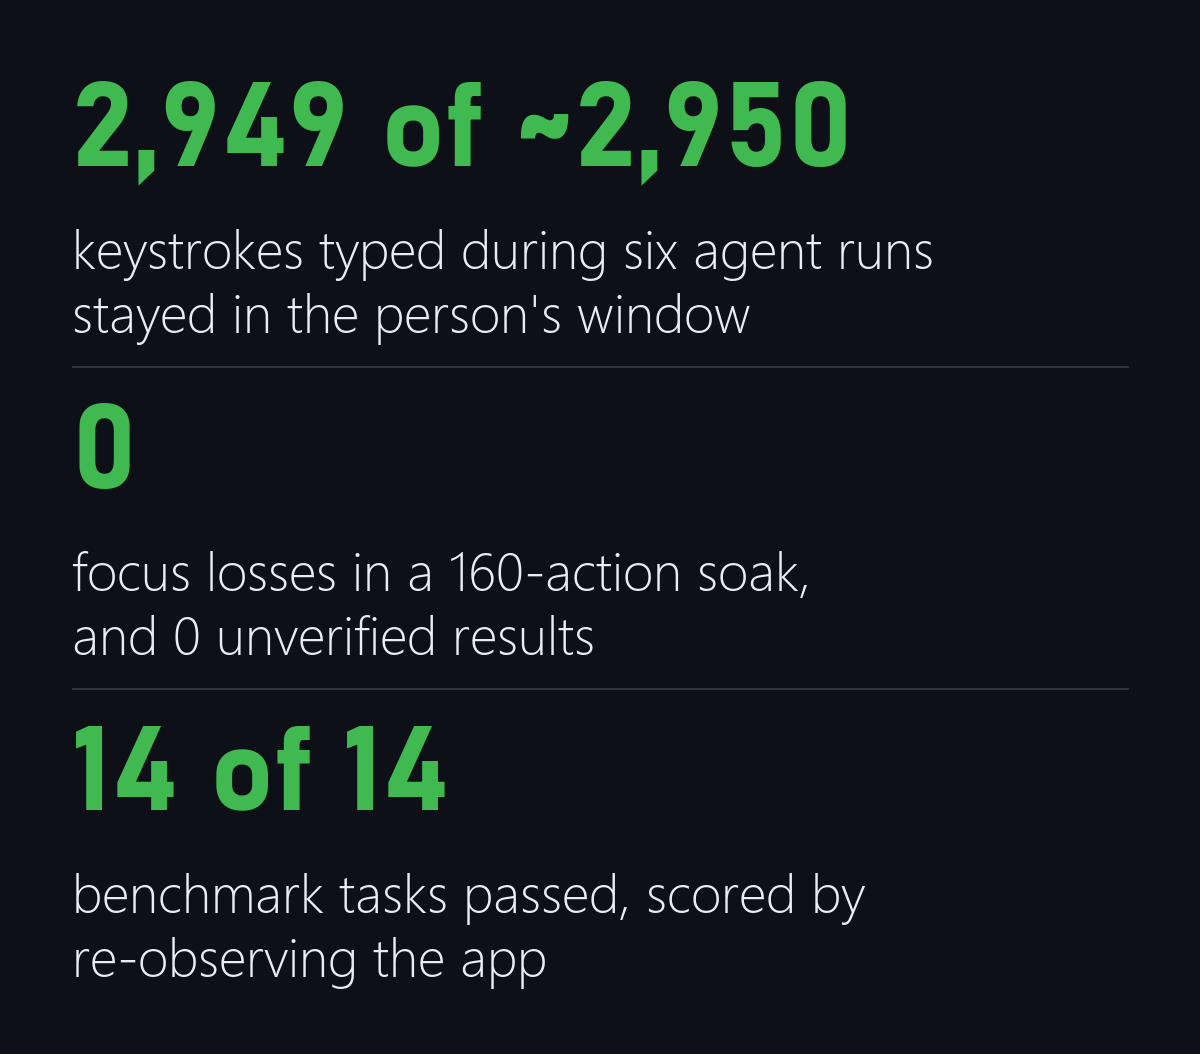
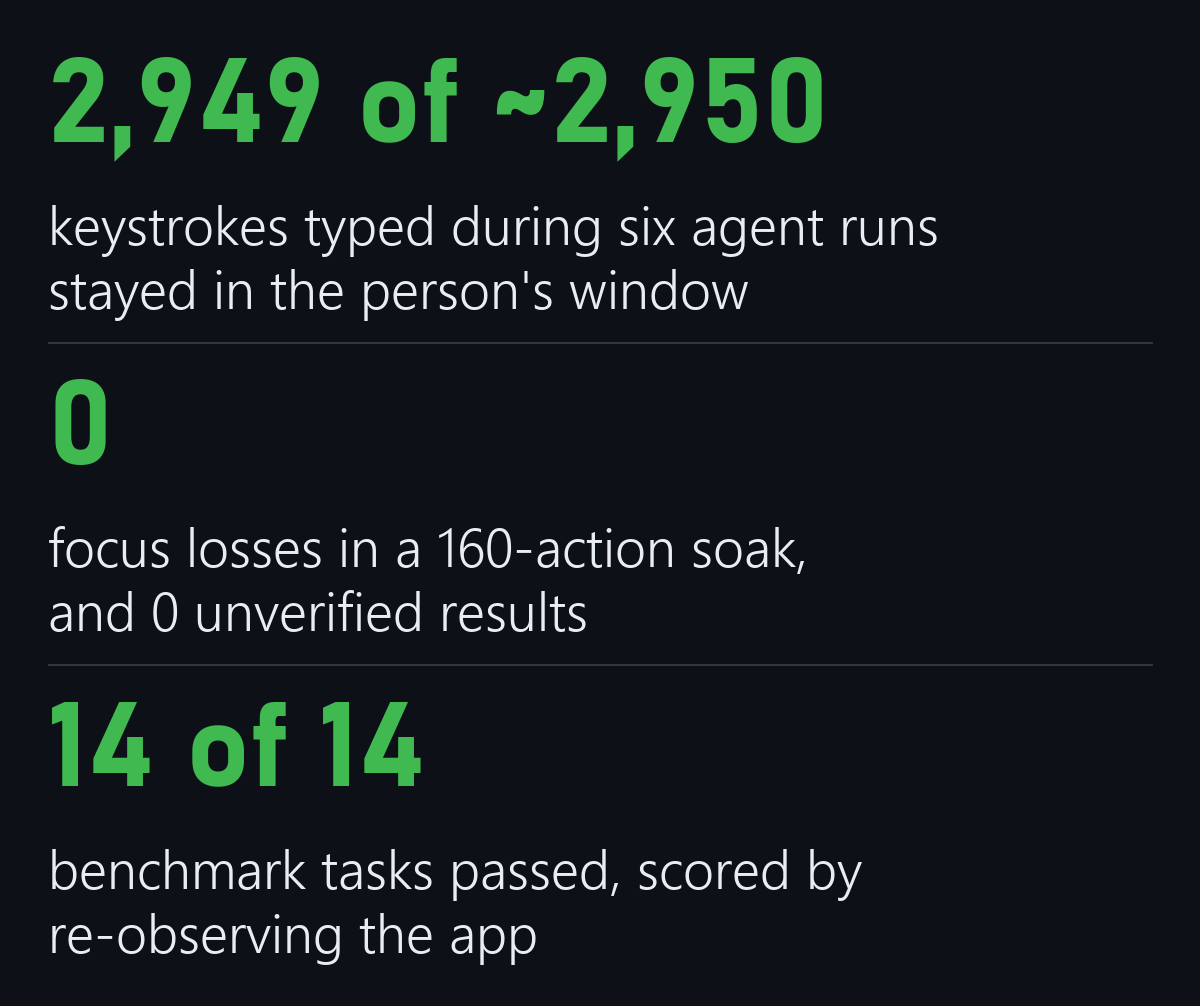
docs(readme): enlarged window title in the demo, route chooser, loop diagram

diff --git a/scripts/readme-art.py b/scripts/readme-art.py
@@ -15,7 +15,7 @@ from PIL import Image, ImageDraw, ImageFont
 ROOT = Path(__file__).resolve().parent.parent
 BG, BORDER = "#0d1117", "#30363d"
 TEXT, MUTED, GREEN = "#e6edf3", "#8b949e", "#3fb950"
-W, PAD = 1200, 72
+W, PAD = 1200, 48  # 48 of 1200 is ~21px at 520, the demo frame's inset
 
 
 def first_font(names, size):
@@ -38,7 +38,11 @@ def display(size):
 
 
 def light(size):
-    return first_font(["segoeuil.ttf", "DejaVuSans-ExtraLight.ttf", "DejaVuSans.ttf"], size)
+    return first_font(["segoeuisl.ttf", "segoeuil.ttf", "DejaVuSans.ttf"], size)
+
+
+def mono(size):
+    return first_font(["consola.ttf", "DejaVuSansMono.ttf"], size)
 
 
 def fit(draw, text, maker, size, width):
@@ -96,7 +100,73 @@ def proof():
     im.save(ROOT / "assets/proof.png", optimize=True)
 
 
+def title_inset():
+    """assets/demo-stacked.gif with the captured window's title bar repeated
+    under the window at twice its size (nearest-neighbour, so it is the same
+    pixels, only larger). The title is what proves the click in the last
+    step, and at phone width the original is about 7px tall."""
+    src = Image.open(ROOT / "assets/demo-stacked.gif")
+    frames, durations = [], []
+    BAND, SCALE, CROP_W, CROP_H = 84, 2, 262, 26
+    for i in range(src.n_frames):
+        src.seek(i)
+        durations.append(src.info.get("duration", 2600))
+        f = src.convert("RGB")
+        w, h = f.size
+        # The window is the only thing light across the whole middle of the
+        # frame (the headline is light text on dark, with gaps).
+        def window_row(y):
+            return all(sum(f.getpixel((x, y))) > 500 for x in range(w * 3 // 10, w * 7 // 10, 8))
+        rows = [y for y in range(h) if window_row(y)]
+        top = rows[0]
+        left = next(x for x in range(w) if sum(f.getpixel((x, top + 4))) > 600)
+        # Walk down the window's light left margin to the end of its client
+        # area, then through the dark frame under it.
+        bottom = top
+        while bottom + 1 < h and sum(f.getpixel((left + 3, bottom + 1))) > 500:
+            bottom += 1
+        while bottom + 1 < h and sum(f.getpixel((left + 3, bottom + 1))) < 60 and \
+                sum(f.getpixel((left + 3, bottom + 1))) != sum(f.getpixel((2, bottom + 1))):
+            bottom += 1
+        crop = f.crop((left + 2, top, left + 2 + CROP_W, top + CROP_H))
+        zoom = crop.resize((CROP_W * SCALE, CROP_H * SCALE), Image.NEAREST)
+        out = Image.new("RGB", (w, h + BAND), BG)
+        out.paste(f.crop((0, 0, w, bottom + 1)), (0, 0))
+        y = bottom + 1 + (BAND - CROP_H * SCALE) // 2
+        out.paste(zoom, (left, y))
+        d = ImageDraw.Draw(out)
+        d.rectangle((left - 1, y - 1, left + CROP_W * SCALE, y + CROP_H * SCALE), outline=BORDER)
+        out.paste(f.crop((0, bottom + 1, w, h)), (0, bottom + 1 + BAND))
+        frames.append(out)
+    frames[0].save(ROOT / "assets/demo-stacked-title.gif", save_all=True, append_images=frames[1:],
+                   duration=durations, loop=0, optimize=True)
+
+
+def loop():
+    """The look, act, confirm loop from "How an agent uses it", as three
+    steps in the same panel language."""
+    steps = [("look", "ghost_see"), ("act", "ghost_act"), ("confirm", "verified: true")]
+    H = 300
+    im = Image.new("RGB", (W, H), BG)
+    d = ImageDraw.Draw(im)
+    gap = 56
+    box_w = (W - 2 * PAD - 2 * gap) // 3
+    word, code = display(58), mono(34)
+    for i, (label, call) in enumerate(steps):
+        x = PAD + i * (box_w + gap)
+        d.rounded_rectangle((x, 60, x + box_w, H - 60), radius=18, outline=BORDER, width=3)
+        d.text((x + box_w // 2, 125), label, font=word, fill=TEXT, anchor="mm")
+        d.text((x + box_w // 2, 190), call, font=code, fill=GREEN if i == 2 else MUTED, anchor="mm")
+        if i < 2:
+            ax = x + box_w + 10
+            d.line((ax, H // 2, ax + gap - 22, H // 2), fill=GREEN, width=5)
+            d.polygon([(ax + gap - 20, H // 2 - 12), (ax + gap - 4, H // 2), (ax + gap - 20, H // 2 + 12)], fill=GREEN)
+    im.save(ROOT / "assets/loop.png", optimize=True)
+
+
 if __name__ == "__main__":
     banner()
     proof()
-    print("wrote assets/banner.png, assets/proof.png")
+    title_inset()
+    loop()
+    print("wrote assets/banner.png, assets/proof.png, assets/demo-stacked-title.gif, assets/loop.png")

diff --git a/README.md b/README.md
@@ -11,11 +11,12 @@
 </div>
 
 <p align="center">
-  <a href="assets/demo.gif"><img src="assets/demo-stacked.gif" width="520" alt="The run's result first: an agent's second click on a button returns verified: true, verified_by: title, focus_preserved: true and cursor_preserved: true, Ghost's screenshot shows the window title counting the click, and the user's foreground window recorded 0 changes. Then the run from the start: Ghost launches the app on its hidden desktop, types into a field and clicks a button, each call verified."></a>
+  <a href="assets/demo.gif"><img src="assets/demo-stacked-title.gif" width="520" alt="The run's result first: an agent's second click on a button returns verified: true, verified_by: title, focus_preserved: true and cursor_preserved: true, Ghost's screenshot shows the window title counting the click (repeated at twice its size under the window), and the user's foreground window recorded 0 changes. Then the run from the start: Ghost launches the app on its hidden desktop, types into a field and clicks a button, each call verified."></a>
 </p>
 
-An agent drives an app on Ghost's hidden desktop, never on your screen. Recorded,
-not drawn: [recording script](scripts/demo-capture.mjs) ·
+An agent drives an app on Ghost's hidden desktop, never on your screen; the
+strip under each window is its title bar at twice the size. Recorded, not
+drawn: [recording script](scripts/demo-capture.mjs) ·
 [full-width recording](assets/demo.gif).
 
 Ghost is an [MCP](https://modelcontextprotocol.io) server, a CLI and a local
@@ -57,7 +58,12 @@ Three steps: install, connect your client, try it.
 Runs on Windows 10 (build 19041+) and 11, and Linux x86_64 (X11 verified,
 Wayland not yet). No macOS yet: see [platform support](#platform-support).
 
-**Claude Desktop**, one click: from the
+Pick one route: **[Claude Desktop](#claude-desktop)** (no terminal),
+**[Windows](#windows)** or **[Linux](#linux)**.
+
+#### Claude Desktop
+
+One click: from the
 [latest release](https://github.com/NORTHTEKDevs/ghost/releases/latest),
 download the bundle for your system and open it in *Settings > Extensions >
 Install from file*. Done; skip to step 3.
@@ -65,7 +71,9 @@ Install from file*. Done; skip to step 3.
 - Windows: `ghost-windows-x64.mcpb`
 - Linux: `ghost-linux-x86_64.mcpb`
 
-**Windows** (PowerShell):
+#### Windows
+
+In PowerShell:
 
 ```powershell
 $raw = "https://raw.githubusercontent.com" +
@@ -73,7 +81,9 @@ $raw = "https://raw.githubusercontent.com" +
 irm "$raw/install-windows.ps1" | iex
 ```
 
-**Linux** (x86_64):
+#### Linux
+
+On x86_64:
 
 ```bash
 repo=https://github.com/NORTHTEKDevs/ghost
@@ -83,7 +93,13 @@ curl -L $dl/ghost-linux-x86_64.tar.gz |
   tar -xz && ./install.sh
 ```
 
-Both installers, with no administrator rights:
+Open a new terminal afterwards so `ghost` is found. On Wayland, read
+[platform support](#platform-support) first.
+
+<details>
+<summary>What the installers do</summary>
+
+With no administrator rights, both installers:
 
 - copy the three programs into place: on Windows into
   `%LOCALAPPDATA%\Programs\ghost`, added to your PATH, after checking the
@@ -93,8 +109,7 @@ Both installers, with no administrator rights:
 - finish with `ghost doctor`, which reports PASS, WARN or FAIL for
   everything Ghost needs.
 
-Open a new terminal afterwards so `ghost` is found. On Wayland, read
-[platform support](#platform-support) first.
+</details>
 
 <details>
 <summary>Other ways to install</summary>
@@ -254,6 +269,10 @@ ghost verify
 ```
 
 ## How an agent uses it
+
+<p align="center">
+  <img src="assets/loop.png" width="520" alt="The loop: look with ghost_see, act with ghost_act, confirm with verified: true.">
+</p>
 
 The loop is look, act, confirm:
 
